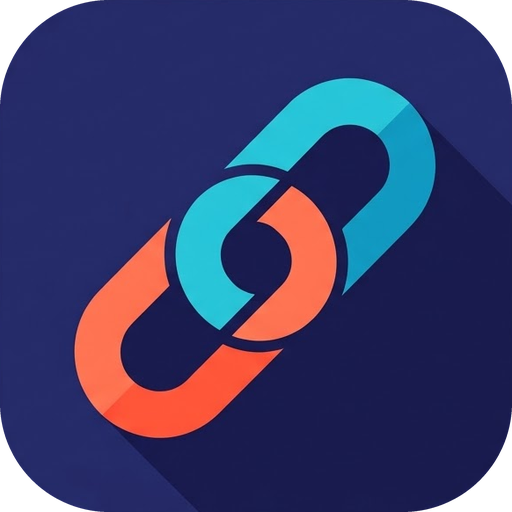
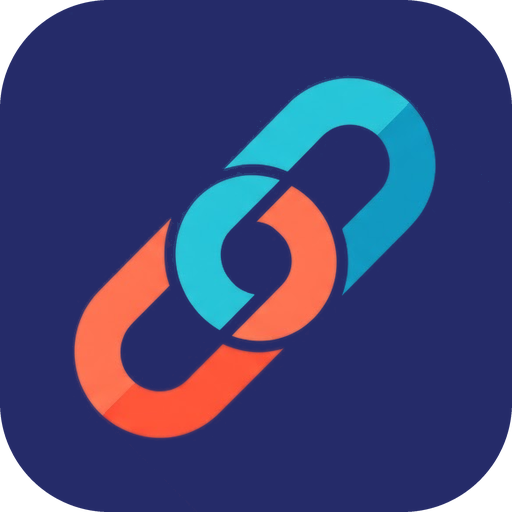
feat: quita ⓘ y ⟳ de la topbar de Inicio, icono Info en la píldora, icono sin sombra y zips con versión en el nombre (v2.9.5)

diff --git a/app/src/main/java/com/sdcardbind/manager/Updater.kt b/app/src/main/java/com/sdcardbind/manager/Updater.kt
@@ -42,7 +42,10 @@ data class ModuleInfo(val version: String, val pendingReboot: Boolean)
 object Updater {
 
     const val DEFAULT_REPO = "jpmorales9038-ai/sdbind_project"
+    // Nombre base del zip del módulo (el asset de la release lleva la versión: ..._v2.9.5.zip).
     private const val ZIP_NAME = "sdcard_bind_ui.zip"
+    private const val ZIP_GLOB = "sdcard_bind_ui_con_app_v*.zip"
+    private const val DOWNLOAD_DIR = "/storage/emulated/0/Download"
     private const val APK_NAME = "sdbind_update.apk"
     private const val APK_IN_ZIP = "sdcard-bind-manager.apk"
     private const val TMP_APK = "/data/local/tmp/sdbind_update.apk"
@@ -308,26 +311,40 @@ object Updater {
 
     // ---------------------------------------------------------------- descarga del módulo
 
+    /** Nombre del zip con la versión, el mismo del asset de la release (sdcard_bind_ui_con_app_v2.9.5.zip). */
+    private fun moduleZipName(rel: ReleaseInfo): String {
+        val raw = rel.zipUrl?.substringBefore('?')?.substringAfterLast('/').orEmpty()
+        val clean = raw.replace(Regex("[^A-Za-z0-9._-]"), "_")
+        return if (clean.endsWith(".zip", ignoreCase = true) && clean.length > 4) clean
+        else "sdcard_bind_ui_${rel.tag.replace(Regex("[^A-Za-z0-9._-]"), "_")}.zip"
+    }
+
     suspend fun downloadModule(context: Context, rel: ReleaseInfo): File? = withContext(Dispatchers.IO) {
         val zipUrl = rel.zipUrl ?: return@withContext null
-        val dest = File(context.cacheDir, ZIP_NAME)
+        val name = moduleZipName(rel)
+        // Quita zips de módulo de descargas anteriores (otra versión) de la caché.
+        context.cacheDir.listFiles { f -> f.name.startsWith("sdcard_bind_ui") && f.name.endsWith(".zip") }
+            ?.forEach { it.delete() }
+        val dest = File(context.cacheDir, name)
         try {
             httpDownload(zipUrl, dest)
         } catch (_: Exception) {
             return@withContext null
         }
         if (!dest.exists() || dest.length() < 1024) return@withContext null
+        // Copia a Descargas con el nombre versionado; borra antes las versiones antiguas que dejó la app.
         Shell.cmd(
-            "cp ${shQuote(dest.absolutePath)} /storage/emulated/0/Download/$ZIP_NAME && " +
-                "chmod 644 /storage/emulated/0/Download/$ZIP_NAME"
+            "rm -f $DOWNLOAD_DIR/$ZIP_NAME $DOWNLOAD_DIR/$ZIP_GLOB; " +
+                "cp ${shQuote(dest.absolutePath)} ${shQuote("$DOWNLOAD_DIR/$name")} && " +
+                "chmod 644 ${shQuote("$DOWNLOAD_DIR/$name")}"
         ).exec()
         dest
     }
 
     fun openForFlash(context: Context, zip: File) {
-        val named = File(context.cacheDir, ZIP_NAME)
-        if (zip.canonicalPath != named.canonicalPath) {
-            zip.copyTo(named, overwrite = true)
+        val cache = context.cacheDir.canonicalPath
+        val named = if (zip.canonicalPath.startsWith(cache)) zip else {
+            File(context.cacheDir, zip.name).also { zip.copyTo(it, overwrite = true) }
         }
         val uri = FileProvider.getUriForFile(
             context,
@@ -345,7 +362,7 @@ object Updater {
                 component = ComponentName(pkg, cls)
                 setDataAndType(uri, "application/zip")
                 putExtra(Intent.EXTRA_STREAM, uri)
-                clipData = ClipData.newUri(context.contentResolver, ZIP_NAME, uri)
+                clipData = ClipData.newUri(context.contentResolver, named.name, uri)
                 addFlags(
                     Intent.FLAG_ACTIVITY_NEW_TASK or
                         Intent.FLAG_ACTIVITY_CLEAR_TOP or
@@ -361,7 +378,7 @@ object Updater {
         val view = Intent(Intent.ACTION_SEND).apply {
             type = "application/zip"
             putExtra(Intent.EXTRA_STREAM, uri)
-            clipData = ClipData.newUri(context.contentResolver, ZIP_NAME, uri)
+            clipData = ClipData.newUri(context.contentResolver, named.name, uri)
             addFlags(Intent.FLAG_ACTIVITY_NEW_TASK or grant)
         }
         val skip = listOf("anykernel", "kernelflasher", "kernel flasher", "exkm", "franco")

diff --git a/app/src/main/java/com/sdcardbind/manager/MainActivity.kt b/app/src/main/java/com/sdcardbind/manager/MainActivity.kt
@@ -454,7 +454,6 @@ fun BindApp() {
                             onRefreshStorage = { refresh(true) },
                             onDelete = { i -> pendingDelete = entries.getOrNull(i) },
                             onOpen = { path -> browsePath = path; flow = Flow.Browse },
-                            onInfo = { goTab(Tab.About) },
                             onAdd = {
                                 if (hasExternal) {
                                     flow = Flow.PickSource; pendingSource = ""
@@ -634,7 +633,7 @@ private fun AppNavBar(selected: Int, onTab: (Tab) -> Unit, modifier: Modifier = 
     val items = listOf(
         UiNavItem(stringResource(R.string.tab_home), Icons.Filled.Home),
         UiNavItem(stringResource(R.string.tab_log), Icons.Filled.Notes),
-        UiNavItem(stringResource(R.string.tab_settings), Icons.Filled.Settings)
+        UiNavItem(stringResource(R.string.tab_settings), Icons.Filled.Info)
     )
     UiNavBar(items = items, selected = selected, onSelect = { onTab(Tab.entries[it]) }, modifier = modifier)
 }
@@ -696,17 +695,13 @@ private fun HomePane(
     onRefreshStorage: () -> Unit,
     onDelete: (Int) -> Unit,
     onOpen: (String) -> Unit,
-    onInfo: () -> Unit,
     onAdd: () -> Unit,
     onToggle: (Boolean) -> Unit
 ) {
     val active = entries.any { it.status == "MOUNTED" }
     val hasExternal = volumes.any { it.kind == VolumeKind.EXTERNAL }
     val header: @Composable () -> Unit = {
-        UiHeader(stringResource(R.string.tab_home)) {
-            IconButton(onClick = onInfo) { Icon(Icons.Filled.Info, contentDescription = stringResource(R.string.about)) }
-            IconButton(onClick = onRefreshStorage) { Icon(Icons.Filled.Refresh, contentDescription = stringResource(R.string.storage_updated)) }
-        }
+        UiHeader(stringResource(R.string.tab_home))
     }
     val hero: @Composable () -> Unit = {
         UiHeroCard(

diff --git a/docs/handoff.md b/docs/handoff.md
@@ -2,8 +2,8 @@
 
 > Léelo completo antes de tocar código.
 > Teléfono: `/storage/emulated/0/Download/sdbind_project/` · Rama: **`preview`**
-> CI (`.github/workflows/build.yml`): compila en push a `main` y `preview`; en `preview` publica pre-release `v<versión>-preview.<run>`.
-> Estado: **v2.9.4** (app 108 / módulo 358). Todo lo anterior está resuelto; solo se documenta lo vigente.
+> CI (`.github/workflows/build.yml`): compila en push a `main` y `preview`; en `preview` publica pre-release `v<versión>-preview.<run>`. El zip del módulo se llama `sdcard_bind_ui_con_app_v<versión>[-preview.<run>].zip`.
+> Estado: **v2.9.5** (app 109 / módulo 359). Todo lo anterior está resuelto; solo se documenta lo vigente.
 
 ## 1. Objetivo de estilo
 Estilo propio (no un clon) inspirado en una app de ajustes de audio (las capturas de referencia ya se borraron): título grande con acciones, cards muy redondeadas, tarjeta principal con interruptor y barra de navegación flotante en píldora. La funcionalidad no cambia. Sin gráficos decorativos de ecualizador, fuentes redondeadas y negrita en títulos, icono propio.
@@ -28,21 +28,23 @@ Estilo propio (no un clon) inspirado en una app de ajustes de audio (las captura
 - `ui/Fonts.kt`: familia con pesos reales. Fuente variable → un `Font` por peso con `variationSettings` (+ eje `ROND=100`); estática → 400 + hermanos `-Medium`/`-Bold`; sin archivo → familias del sistema por nombre. Fallback definitivo si algún día no se ve redonda: bundlear un `.ttf` (p. ej. Nunito) en `res/font/`.
 - `MainActivity.kt`:
   - Scaffold sin `bottomBar` ni FAB; `AppNavBar` → `UiNavBar` va en el `Box` raíz.
-  - Inicio (`HomePane`): header "Inicio" con ⓘ (Ajustes) y ⟳; `UiHeroCard` "Usar vínculos"; cards Almacenamiento (long-press refresca) y Vínculos (botón "Añadir vínculo").
+  - Inicio (`HomePane`): header "Inicio" sin acciones (refrescar = deslizar o mantener pulsada la card Almacenamiento); `UiHeroCard` "Usar vínculos"; cards Almacenamiento (long-press refresca) y Vínculos (botón "Añadir vínculo").
   - Interruptor: ON = `RootOps.saveAndApply(entries)`; OFF = `unmountAllNow()`; estado = `entries.any { status == "MOUNTED" }`. Sin SD/OTG o sin vínculos → snackbar.
   - Registro (`LogPane`): parsea `mount.log` (`YYYY-MM-DD HH:MM:SS mensaje`) en `LogLine` con nivel (`logLevelOf`) y etiqueta (`logTagOf`) por palabras clave; **si cambian los mensajes del módulo hay que ajustarlas**. Buscador, filtro por nivel, compartir/borrar, botones ir al inicio/final.
   - Anillo de almacenamiento: `CircularProgressIndicator` plano; solo anima el llenado 0→valor (`tween(2200, EaseInOutCubic)`).
   - `PullRefresh` (`PullToRefreshBox`) en Inicio y Registro.
   - `AppLogo` usa `R.drawable.app_logo` (`drawable-nodpi/app_logo.png`), **no** `R.mipmap.ic_launcher` (adaptive-icon que Compose rechaza). Si cambias el icono, copia también ese PNG.
-- Icono: adaptativo (`mipmap-anydpi-v26/ic_launcher.xml` → `ic_launcher_foreground.png` reducido ~52 % + `ic_launcher_background.png` `#252B69`). Con `minSdk 26` no hacen falta PNG de launcher ni icono redondo. El logo de Ajustes es `drawable-nodpi/app_logo.png` (**no** `R.mipmap.ic_launcher`: Compose rechaza el adaptive-icon); `module/icon.png` es el mismo arte (lo usa el README). Si cambias el icono, actualiza esos 4 archivos.
+- Icono: adaptativo (`mipmap-anydpi-v26/ic_launcher.xml` → `ic_launcher_foreground.png` reducido ~52 % + `ic_launcher_background.png` `#252B69`). La cadena va **sin sombra larga**: fondo plano `#252B69` en todos los PNG. Con `minSdk 26` no hacen falta PNG de launcher ni icono redondo. El logo de Ajustes es `drawable-nodpi/app_logo.png` (**no** `R.mipmap.ic_launcher`: Compose rechaza el adaptive-icon); `module/icon.png` es el mismo arte (lo usa el README). Si cambias el icono, actualiza esos 4 archivos.
 - Actualizaciones (Ajustes): `Updater.kt` (red, semver, instalación), `UpdateController.kt` (estado), `UpdatesCard.kt` (UI).
   - Automático: al abrir la app (`onForeground`) y cada 30 min en primer plano (`autoCheck`, mín. 10 min entre búsquedas) → `GET /repos/<repo>/releases?per_page=30`, elige la versión más alta (incluye pre-releases) con asset `.apk`/`.zip`. Si es más nueva, **descarga y verifica** el APK (paquete; la firma la valida `pm`) y la tarjeta pasa a `AppPhase.Ready`: **verde** + botón "Instalar actualización" que solo confirma (`installReady()`: `pm install -r` vía root en proceso desligado que relanza la app; guarda `updated_to` y al reabrir sale verde "App actualizada"). Sin actualización no hay botón. Los fallos de la búsqueda automática son silenciosos.
   - Deslizar en Ajustes (`PullRefreshAwait` → `UpdateController.refresh()`): repite la búsqueda al momento, con mensajes ("Ya estás al día", errores). El APK ya descargado se reutiliza (`ready_version` en prefs + `cacheDir/sdbind_update.apk`).
   - Si la versión de la app ≠ la de `module.prop` (o `/data/adb/modules_update/<id>/`) la tarjeta pasa a ámbar con "Descargar y flashear módulo" (si a la vez hay una actualización lista, manda el verde y el botón de flashear espera a que se instale) (`Updater.openForFlash`).
   - Semver: la final > sus pre-releases (`2.9.3` > `2.9.3-preview.99`); `compareBase`/`sameVersion` comparan solo números (módulo sin sufijo), `sameBuild` la build exacta.
-  - `versionName = "2.9.4$buildSuffix"`; el CI pasa `-PbuildSuffix="-preview.<run>"`. **No pongas el sufijo a mano.**
+  - `versionName = "2.9.5$buildSuffix"`; el CI pasa `-PbuildSuffix="-preview.<run>"`. **No pongas el sufijo a mano.**
   - Gotcha: tras instalar una **final** (`main`), las pre-releases de esa misma versión dejan de ofrecerse; sube versión (app y módulo a la vez) antes de seguir en `preview`.
   - Limitación: la actualización de la app requiere root y la misma firma; sin root no hay instalador de respaldo.
+  - Zip del módulo ("Descargar y flashear módulo"): `Updater.downloadModule` lo guarda en caché y en `Download/` con el nombre versionado del asset (`sdcard_bind_ui_con_app_v<versión>.zip`) y borra antes las versiones antiguas (`sdcard_bind_ui.zip`, `sdcard_bind_ui_con_app_v*.zip`).
+- Barra de navegación: pestañas Inicio (`Home`), Registro (`Notes`) y la tercera (etiqueta "Ajustes") con icono `Info`.
 - Sin cambios: `RootOps.kt`, selector de carpetas, explorador.
 
 ## 4. Pendiente opcional
@@ -55,18 +57,19 @@ Estilo propio (no un clon) inspirado en una app de ajustes de audio (las captura
 - Lógica root nueva solo en `RootOps.kt`, nunca en composables.
 - Si cambias algo funcional, sube versión en `app/build.gradle.kts` **y** `module/module.prop` a la vez.
 - No usar nombres, textos ni gráficos de la app de referencia.
+- El zip de entrega del proyecto se llama `sdbind_project_v<versión>.zip` (versión de `module.prop`).
 - Aviso de uso: avisar al usuario al acercarse al 90 % del uso gratuito; si una tarea queda a medias, documentar qué se hizo y qué falta en `docs/prompt_siguiente_chat.md` y aquí.
 
 ## 6. Comandos Termux
 Una línea por comando; el zip no trae carpeta raíz y se extrae encima conservando `.git`.
 
 ```bash
-cd /storage/emulated/0/Download && unzip -o sdbind_project.zip -d sdbind_project
+cd /storage/emulated/0/Download && unzip -o sdbind_project_v2.9.5.zip -d sdbind_project
 cd sdbind_project
 git add -A
-git commit -m "feat: búsqueda automática de actualizaciones; tarjeta verde con botón solo para confirmar la instalación; deslizar en Ajustes refresca (v2.9.4)"
+git commit -m "feat: quita ⓘ y ⟳ de la topbar de Inicio, icono Info en la píldora, icono sin sombra y zips con versión en el nombre (v2.9.5)"
 git push origin preview
 cinotif
 ```
 
-No hay archivos que borrar (`rm`) en esta entrega: no se elimina ni renombra ningún archivo.
+No hay archivos que borrar (`rm`) en esta entrega: no se elimina ni renombra ningún archivo del proyecto.

diff --git a/docs/prompt_siguiente_chat.md b/docs/prompt_siguiente_chat.md
@@ -16,6 +16,6 @@ Ninguna pendiente. (Si un chat anterior dejó algo a medias, aquí va qué se hi
 
 ## Reglas
 - No cambies `RootOps.kt` ni la firma/`applicationId`; solo colores del `ColorScheme`; cada texto nuevo va en los tres `strings.xml` (es, es-rES, en).
-- Entrega el proyecto completo en un zip listo para descomprimir sobre `sdbind_project/`.
+- Entrega el proyecto completo en un zip `sdbind_project_v<versión>.zip` (versión en el nombre), listo para descomprimir sobre `sdbind_project/`; el comando `unzip` del handoff usa ese nombre.
 - Al terminar, actualiza `docs/handoff.md` (sección de comandos Termux con el nuevo mensaje de commit y los `rm` necesarios) y mantenlo corto: solo lo vigente.
 - **Aviso de uso:** avísame cuando estés llegando al 90 % de mi uso gratuito (si no ves el contador, estima por la longitud del chat). Si una tarea queda a medias, documenta en "Tarea en curso" de este prompt, y en el handoff, qué hiciste y qué falta.

diff --git a/README.md b/README.md
@@ -5,7 +5,7 @@
 
   **Vincula tarjetas SD y unidades OTG dentro del almacenamiento interno de tu Android — sin copiar archivos.**
 
-  ![versión](https://img.shields.io/badge/versión-v2.9.4-c5c0ff?style=for-the-badge&labelColor=131318)
+  ![versión](https://img.shields.io/badge/versión-v2.9.5-c5c0ff?style=for-the-badge&labelColor=131318)
   ![root](https://img.shields.io/badge/root-KernelSU%20%7C%20KernelSU--Next-1c1b21?style=for-the-badge)
   ![plataforma](https://img.shields.io/badge/plataforma-Android-1c1b21?style=for-the-badge)
 </div>
